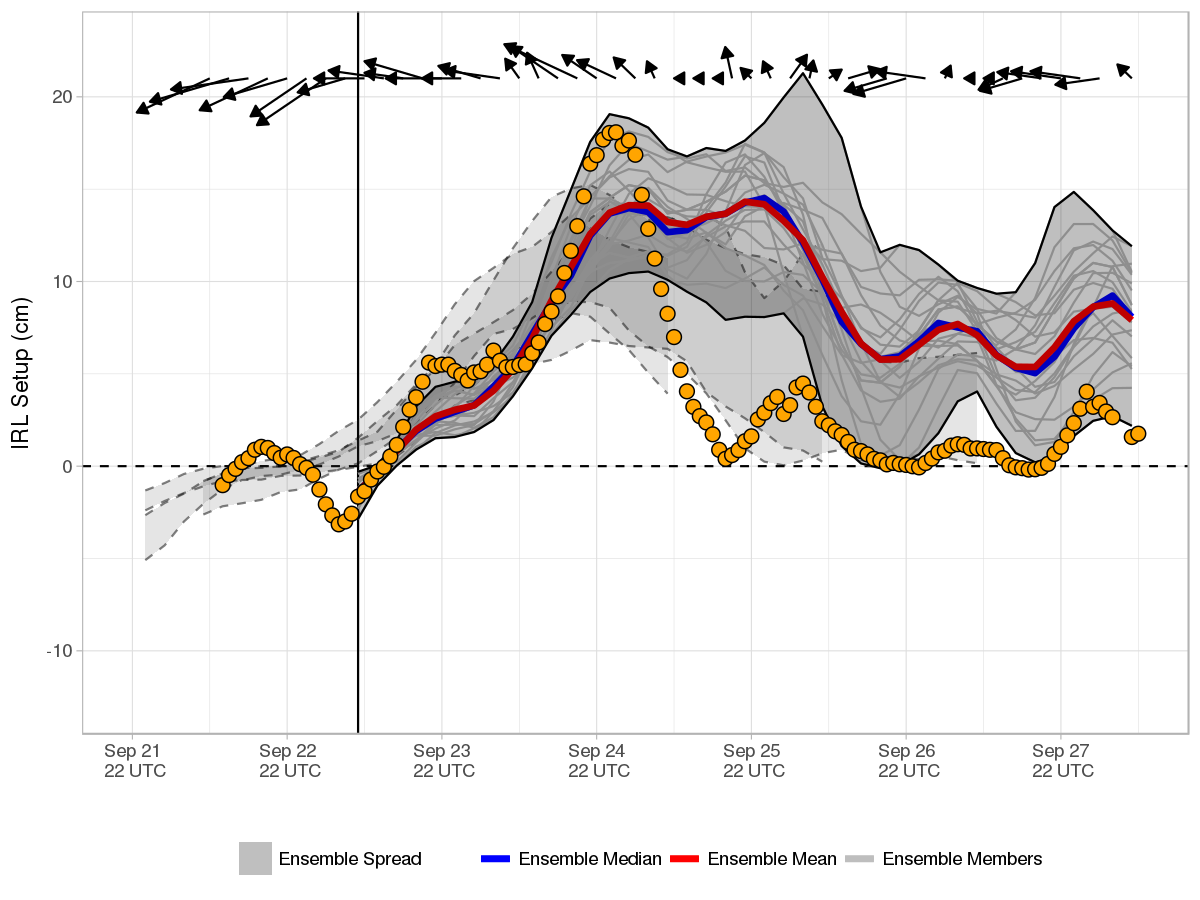
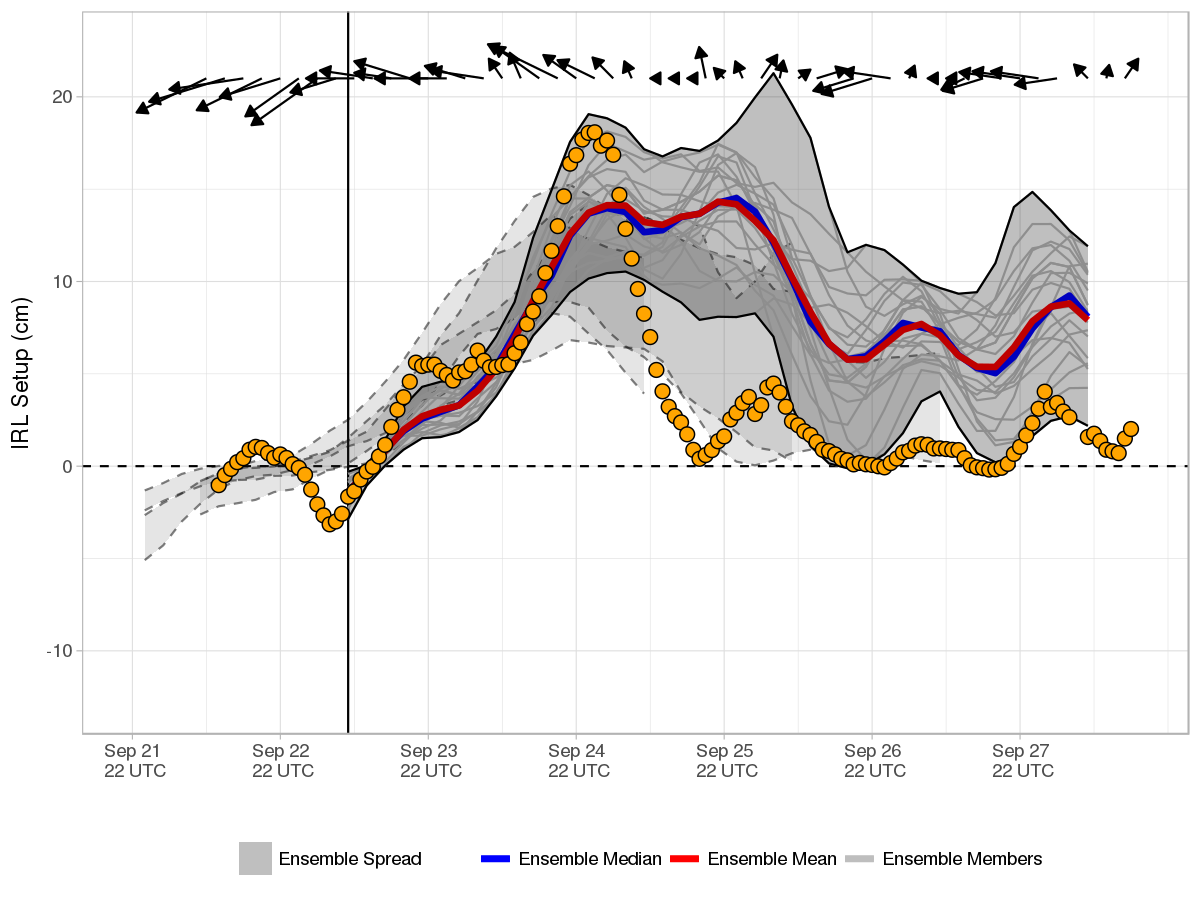
Forecast Update 2020092812

diff --git a/docs/index.md b/docs/index.md
@@ -1,9 +1,9 @@
-Current Forecast 2020-09-28 06Z
+Current Forecast 2020-09-28 12Z
 -----------------------------------
 
 [![](img/raw_setup.png)](https://fit-winds.github.io/IRLSetup/img/raw_setup.png)
 
-> Forecast valid 2020-09-28 07:02:03.
+> Forecast valid 2020-09-28 13:01:32.
 
 Explanation
 -----------
